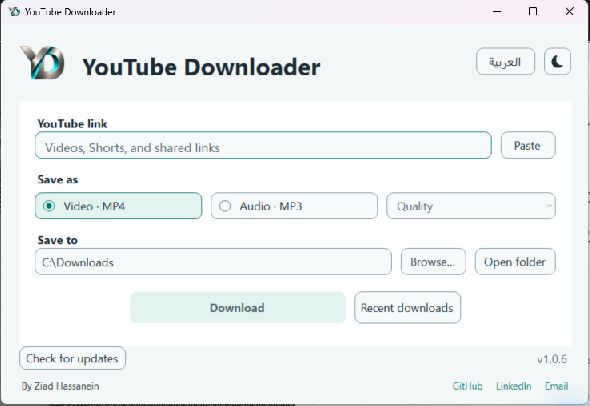
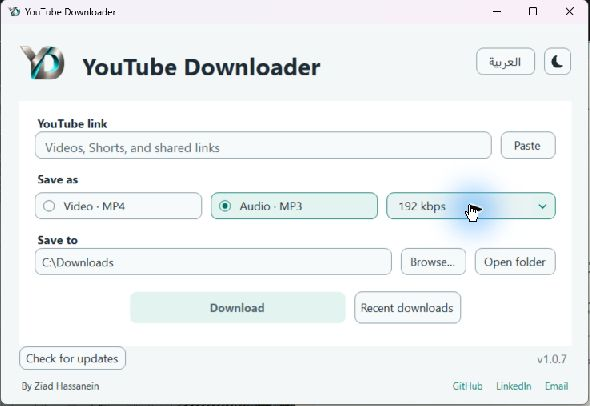
Refine quality dropdown styling and native option list

diff --git a/src/Theme.cs b/src/Theme.cs
@@ -314,23 +314,93 @@ namespace YouTubeDownloader {
     internal sealed class ThemeCombo : ComboBox {
         public Palette Colors=Palette.For(false);
         public bool IsArabic;
+        private bool hover;
+        private PopupFrame popup;
+        [StructLayout(LayoutKind.Sequential)] private struct ComboInfo { public int Size; public Rectangle Item,Button; public int ButtonState; public IntPtr Combo,Edit,List; }
+        [StructLayout(LayoutKind.Sequential)] private struct NativeRect { public int Left,Top,Right,Bottom; }
+        [DllImport("user32.dll")] private static extern bool GetComboBoxInfo(IntPtr window,ref ComboInfo info);
+        [DllImport("user32.dll")] private static extern bool GetWindowRect(IntPtr window,out NativeRect bounds);
+        [DllImport("user32.dll")] private static extern int SetWindowRgn(IntPtr window,IntPtr region,bool redraw);
+        [DllImport("gdi32.dll")] private static extern IntPtr CreateRoundRectRgn(int left,int top,int right,int bottom,int width,int height);
+        [DllImport("gdi32.dll")] private static extern bool DeleteObject(IntPtr value);
+        [DllImport("user32.dll")] private static extern IntPtr GetWindowDC(IntPtr window);
+        [DllImport("user32.dll")] private static extern int ReleaseDC(IntPtr window,IntPtr context);
+        [DllImport("user32.dll")] private static extern bool InvalidateRect(IntPtr window,IntPtr rectangle,bool erase);
+        [DllImport("user32.dll")] private static extern bool UpdateWindow(IntPtr window);
+        public ThemeCombo() { MaxDropDownItems=8; IntegralHeight=true; Cursor=Cursors.Hand; }
+        protected override void OnMouseEnter(EventArgs e) { hover=true; Invalidate(); base.OnMouseEnter(e); }
+        protected override void OnMouseLeave(EventArgs e) { hover=false; Invalidate(); base.OnMouseLeave(e); }
+        protected override void OnGotFocus(EventArgs e) { base.OnGotFocus(e); Invalidate(); }
+        protected override void OnLostFocus(EventArgs e) { base.OnLostFocus(e); Invalidate(); }
+        protected override void OnSelectedIndexChanged(EventArgs e) { base.OnSelectedIndexChanged(e); Invalidate(); if(popup!=null && DroppedDown) popup.RefreshRows(); }
+        protected override void OnDropDown(EventArgs e) {
+            base.OnDropDown(e);
+            var info=new ComboInfo { Size=Marshal.SizeOf(typeof(ComboInfo)) };
+            if(GetComboBoxInfo(Handle,ref info) && info.List!=IntPtr.Zero) {
+                if(popup==null) popup=new PopupFrame(this);
+                popup.Attach(info.List);
+                BeginInvoke(new Action(delegate { if(!IsDisposed && DroppedDown && popup!=null) { popup.Round(); popup.PaintFrame(); } }));
+            }
+            Invalidate();
+        }
+        protected override void OnDropDownClosed(EventArgs e) { base.OnDropDownClosed(e); Invalidate(); }
+        protected override void OnHandleDestroyed(EventArgs e) { if(popup!=null) { popup.ReleaseHandle(); popup=null; } base.OnHandleDestroyed(e); }
+        internal static TextFormatFlags TextFlags(bool arabic,string text) {
+            var flags=(arabic ? TextFormatFlags.Right : TextFormatFlags.Left)|TextFormatFlags.VerticalCenter|TextFormatFlags.SingleLine|TextFormatFlags.NoPrefix|TextFormatFlags.EndEllipsis;
+            if(arabic) foreach(char letter in text) if(letter>='\u0600' && letter<='\u06ff') { flags|=TextFormatFlags.RightToLeft; break; }
+            return flags;
+        }
         protected override void WndProc(ref Message message) {
             base.WndProc(ref message);
             if(message.Msg==0x000F && IsHandleCreated) using(var target=Graphics.FromHwnd(Handle)) using(var frame=BufferedGraphicsManager.Current.Allocate(target,ClientRectangle)) {
                 var graphics=frame.Graphics;
-                int width=Math.Max(18,SystemInformation.VerticalScrollBarWidth);
+                const int width=38;
                 graphics.Clear(Parent==null ? Colors.Surface : Parent.BackColor);
                 graphics.SmoothingMode=SmoothingMode.AntiAlias;
                 using(var path=Drawing.Rounded(Drawing.SurfaceBounds(this),Drawing.CornerRadius)) {
-                    using(var brush=new SolidBrush(Colors.Field)) graphics.FillPath(brush,path);
-                    using(var pen=new Pen(Focused && Enabled ? Colors.Accent : Colors.Border,Focused && Enabled ? 1.5f : 1f)) graphics.DrawPath(pen,path);
+                    using(var brush=new SolidBrush(Enabled && hover ? Colors.Hover : Colors.Field)) graphics.FillPath(brush,path);
+                    bool active=Enabled && (Focused || DroppedDown);
+                    using(var pen=new Pen(active || (Enabled && hover) ? Colors.Accent : Colors.Border,active ? 1.5f : 1f)) graphics.DrawPath(pen,path);
                 }
                 string text=SelectedItem==null ? Text : SelectedItem.ToString(); bool rtl=IsArabic;
-                TextRenderer.DrawText(graphics,text,Font,new Rectangle(rtl ? width+8 : 12,0,Math.Max(0,Width-width-20),Height),Enabled ? Colors.Ink : Colors.Muted,(rtl ? TextFormatFlags.Right|TextFormatFlags.RightToLeft : TextFormatFlags.Left)|TextFormatFlags.VerticalCenter|TextFormatFlags.SingleLine|TextFormatFlags.NoPrefix);
-                if(Focused && ShowFocusCues && Enabled) ControlPaint.DrawFocusRectangle(graphics,new Rectangle(rtl ? width+5 : 5,5,Width-width-10,Height-10),Colors.Ink,Colors.Field);
-                int x=rtl ? width/2+1 : Width-width/2-1,y=Height/2;
-                using(var pen=new Pen(Enabled ? Colors.Ink : Colors.Muted,1.5f)) { graphics.DrawLine(pen,x-3,y-2,x,y+1); graphics.DrawLine(pen,x,y+1,x+3,y-2); }
+                TextRenderer.DrawText(graphics,text,Font,new Rectangle(rtl ? width+10 : 14,0,Math.Max(0,Width-width-24),Height),Enabled ? Colors.Ink : Colors.Muted,TextFlags(rtl,text));
+                var arrow=new Rectangle(rtl ? 6 : Width-width,6,width-6,Math.Max(1,Height-12));
+                if(Enabled && (hover || DroppedDown)) using(var path=Drawing.Rounded(arrow,6)) using(var brush=new SolidBrush(Colors.Selected)) graphics.FillPath(brush,path);
+                int x=arrow.Left+arrow.Width/2,y=Height/2, direction=DroppedDown ? -1 : 1;
+                Color arrowInk=Enabled && (hover || DroppedDown) ? (SystemInformation.HighContrast ? Colors.OnAccent : Colors.Accent) : Colors.Muted;
+                using(var pen=new Pen(arrowInk,1.8f)) { pen.StartCap=pen.EndCap=LineCap.Round; graphics.DrawLines(pen,new[]{new Point(x-5,y-direction*2),new Point(x,y+direction*3),new Point(x+5,y-direction*2)}); }
                 frame.Render(target);
+            }
+        }
+        private sealed class PopupFrame : NativeWindow {
+            private readonly ThemeCombo owner;
+            private int width,height;
+            public PopupFrame(ThemeCombo owner) { this.owner=owner; }
+            public void Attach(IntPtr window) { if(Handle==window) return; if(Handle!=IntPtr.Zero) ReleaseHandle(); width=height=0; AssignHandle(window); }
+            public void RefreshRows() { if(Handle!=IntPtr.Zero) { InvalidateRect(Handle,IntPtr.Zero,true); UpdateWindow(Handle); } }
+            public void Round() {
+                NativeRect bounds; if(Handle==IntPtr.Zero || !GetWindowRect(Handle,out bounds)) return;
+                int w=bounds.Right-bounds.Left,h=bounds.Bottom-bounds.Top;
+                if(w<3 || h<3 || (w==width && h==height)) return;
+                width=w; height=h;
+                IntPtr region=CreateRoundRectRgn(0,0,w+1,h+1,20,20);
+                if(region!=IntPtr.Zero && SetWindowRgn(Handle,region,true)==0) DeleteObject(region);
+            }
+            public void PaintFrame() {
+                NativeRect bounds; if(Handle==IntPtr.Zero || !GetWindowRect(Handle,out bounds)) return;
+                int w=bounds.Right-bounds.Left,h=bounds.Bottom-bounds.Top; if(w<3 || h<3) return;
+                IntPtr context=GetWindowDC(Handle); if(context==IntPtr.Zero) return;
+                try { using(var graphics=Graphics.FromHdc(context)) {
+                    graphics.ExcludeClip(new Rectangle(1,1,w-2,h-2));
+                    using(var brush=new SolidBrush(owner.Colors.Field)) graphics.FillRectangle(brush,0,0,w,h);
+                    graphics.ResetClip(); graphics.SmoothingMode=SmoothingMode.AntiAlias;
+                    using(var path=Drawing.Rounded(new Rectangle(0,0,w-1,h-1),Drawing.CornerRadius)) using(var pen=new Pen(owner.Colors.Border)) graphics.DrawPath(pen,path);
+                } } finally { ReleaseDC(Handle,context); }
+            }
+            protected override void WndProc(ref Message message) {
+                base.WndProc(ref message);
+                if(message.Msg==0x0047 || message.Msg==0x0005) Round();
+                if(message.Msg==0x000F || message.Msg==0x0085) PaintFrame();
             }
         }
     }

diff --git a/src/App.cs b/src/App.cs
@@ -468,10 +468,18 @@ namespace YouTubeDownloader {
             foreach(Control child in item.Controls) ApplyColors(child,back);
         }
         private void DrawChoice(object sender,DrawItemEventArgs e) {
-            if(e.Index<0) return; var box=(ComboBox)sender; bool selected=(e.State & DrawItemState.Selected)!=0;
-            using(var brush=new SolidBrush(selected ? colors.Selected : colors.Field)) e.Graphics.FillRectangle(brush,e.Bounds);
-            TextRenderer.DrawText(e.Graphics,box.Items[e.Index].ToString(),box.Font,new Rectangle(e.Bounds.X+8,e.Bounds.Y,e.Bounds.Width-16,e.Bounds.Height),box.Enabled ? Ink : Muted,(IsArabic ? TextFormatFlags.Right|TextFormatFlags.RightToLeft : TextFormatFlags.Left)|TextFormatFlags.VerticalCenter|TextFormatFlags.SingleLine);
-            if(box.Enabled && box.Focused && (e.State & DrawItemState.Focus)!=0) ControlPaint.DrawFocusRectangle(e.Graphics,e.Bounds,Ink,selected ? colors.Selected : colors.Field);
+            if(e.Index<0) return; var box=(ComboBox)sender; bool selected=(e.State & DrawItemState.Selected)!=0, face=(e.State & DrawItemState.ComboBoxEdit)!=0;
+            using(var brush=new SolidBrush(colors.Field)) e.Graphics.FillRectangle(brush,e.Bounds);
+            var row=new Rectangle(e.Bounds.X+4,e.Bounds.Y+3,Math.Max(1,e.Bounds.Width-8),Math.Max(1,e.Bounds.Height-6));
+            e.Graphics.SmoothingMode=System.Drawing.Drawing2D.SmoothingMode.AntiAlias;
+            if(selected && !face) using(var path=Drawing.Rounded(row,6)) using(var brush=new SolidBrush(colors.Selected)) e.Graphics.FillPath(brush,path);
+            Color ink=!box.Enabled ? Muted : (selected && !face && SystemInformation.HighContrast ? colors.OnAccent : Ink);
+            string text=box.Items[e.Index].ToString();
+            TextRenderer.DrawText(e.Graphics,text,box.Font,new Rectangle(e.Bounds.X+(face ? 14 : (IsArabic ? 14 : 36)),e.Bounds.Y,Math.Max(1,e.Bounds.Width-(face ? 28 : 50)),e.Bounds.Height),ink,ThemeCombo.TextFlags(IsArabic,text));
+            if(!face && e.Index==box.SelectedIndex) {
+                int x=IsArabic ? e.Bounds.Right-20 : e.Bounds.Left+20,y=e.Bounds.Top+e.Bounds.Height/2;
+                using(var pen=new Pen(selected && SystemInformation.HighContrast ? colors.OnAccent : Accent,1.8f)) { pen.StartCap=pen.EndCap=System.Drawing.Drawing2D.LineCap.Round; e.Graphics.DrawLines(pen,new[]{new Point(x-5,y),new Point(x-1,y+4),new Point(x+6,y-4)}); }
+            }
         }
         private async Task CheckUpdateAsync(bool manual) {
             if(checkingUpdate || installingUpdate) return; checkingUpdate=true; update.Enabled=false; SetButtonText(update,"Checking updates…"); if(manual) ShowUpdateNotice("Checking for updates","Looking for the latest app release…",StatusTone.Info);

diff --git a/src/AssemblyInfo.cs b/src/AssemblyInfo.cs
@@ -6,6 +6,6 @@ using System.Runtime.InteropServices;
 [assembly: AssemblyCompany("Ziad Hassanein")]
 [assembly: AssemblyProduct("YouTube Downloader")]
 [assembly: AssemblyCopyright("Copyright © 2026 Ziad Hassanein")]
-[assembly: AssemblyVersion("1.0.6.0")]
-[assembly: AssemblyFileVersion("1.0.6.0")]
+[assembly: AssemblyVersion("1.0.7.0")]
+[assembly: AssemblyFileVersion("1.0.7.0")]
 [assembly: ComVisible(false)]

diff --git a/README.md b/README.md
@@ -6,17 +6,17 @@ A desktop app for saving YouTube videos as MP4 or extracting MP3 audio. Paste a 
 
 **[Download the latest Windows release](https://github.com/ZiadHassanein/youtube-downloader-windows/releases/latest)**
 
-| Light theme | Dark theme |
+| English · light | Arabic · dark |
 | --- | --- |
-| ![Downloader in light theme](assets/screenshot-light.png) | ![Downloader in dark theme](assets/screenshot-dark.png) |
+| ![Downloader in English light theme](assets/screenshot-light.png) | ![Downloader in Arabic dark theme](assets/screenshot-ar-dark.png) |
 
-| Arabic · light | Arabic · dark |
+| Light option list | Dark option list |
 | --- | --- |
-| ![Arabic in light theme](assets/screenshot-ar-light.png) | ![Arabic in dark theme](assets/screenshot-ar-dark.png) |
+| ![Expanded light dropdown](assets/quality-options-light.png) | ![Expanded dark dropdown](assets/quality-options-dark.png) |
 
 ## Get started
 
-1. Download `YouTubeDownloader-v1.0.6-windows-x64.zip` from the release page.
+1. Download `YouTubeDownloader-v1.0.7-windows-x64.zip` from the release page.
 2. Extract the ZIP to a writable folder.
 3. If yt-dlp, FFmpeg, or Deno are missing, run `SetupTools.cmd` once. It installs only missing tools through Windows Package Manager.
 4. Open `YouTubeDownloader.exe`, paste a video link, and wait for its available qualities to appear.
@@ -41,6 +41,7 @@ Windows 10/11 x64 and .NET Framework 4.8 are required. Windows 11 includes the r
 - The English app name stays on the left in both languages, with a simpler link-to-download layout.
 - Immediate theme repaint with a brief 120 ms icon transition that respects Windows animation settings.
 - Equal-width MP4 / MP3 / quality controls filling the row, with rounded inputs and buttons.
+- Refined quality dropdown with a larger chevron, themed rounded options, and a checkmark for the current selection.
 - Automatic checks on paste, a helpful link placeholder, and concise errors with recovery steps.
 - Clear feedback when the app is up to date or an update check fails.
 - Update action on the left and a simple version label on the right in both languages.
